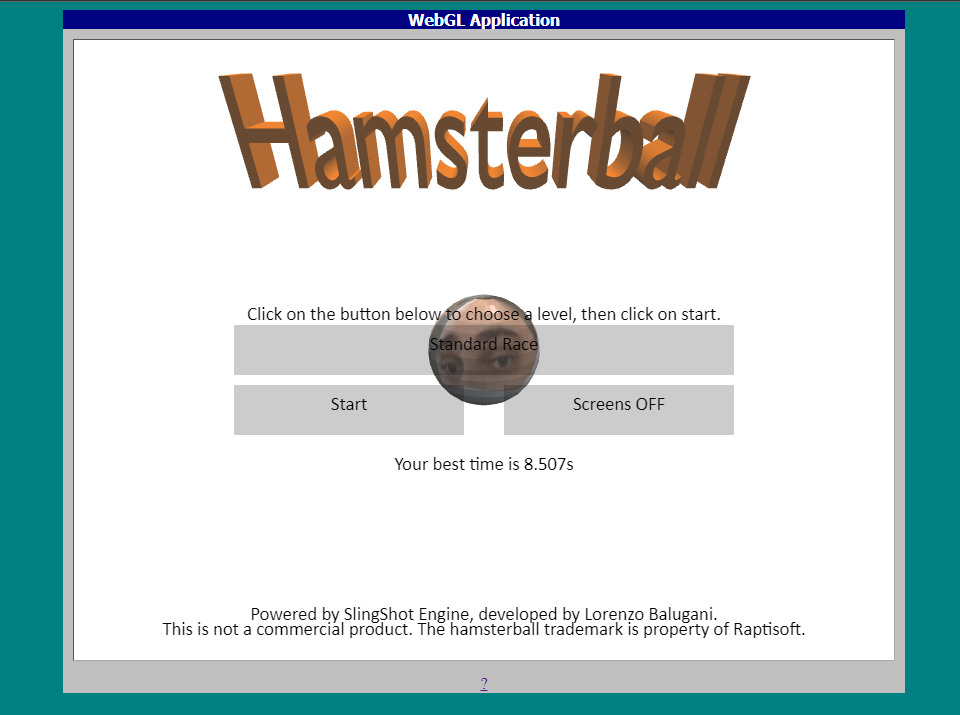
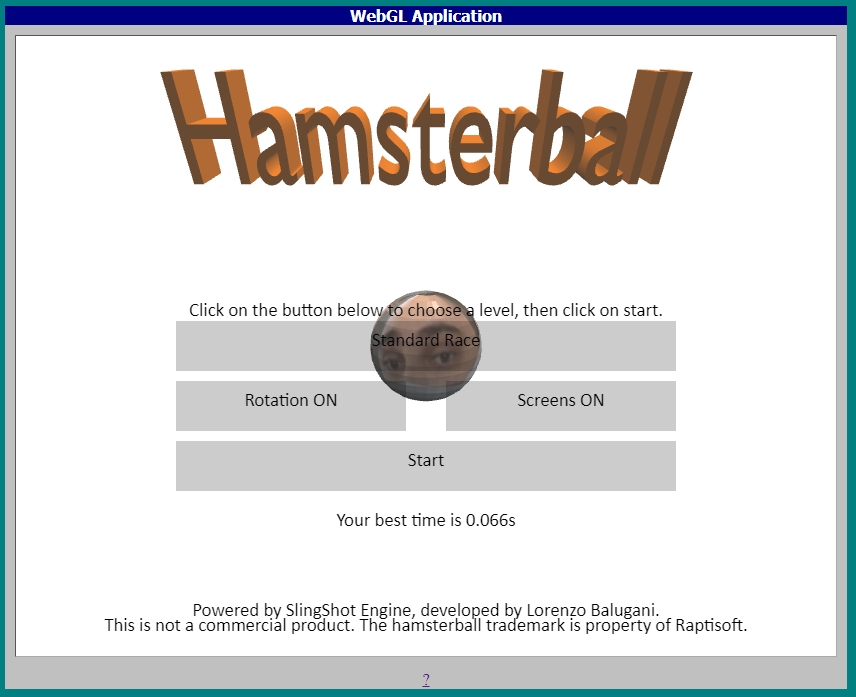
:sparkles: Fix mouse controls

diff --git a/doc/index.html b/doc/index.html
@@ -76,11 +76,13 @@
                 <p>
                     L'applicazione può essere utilizzata in due modi: o visitando il link del github pages del progetto
                     (<a
-                        href="https://nemesis-ft.github.io/HamsterBall-WebGL/index.html">qui</a>) oppure scaricandolo localmente
+                        href="https://nemesis-ft.github.io/HamsterBall-WebGL/index.html">qui</a>) oppure scaricandolo
+                    localmente
                     dal
                     repository github (<a href="https://github.com/Nemesis-FT/HamsterBall-WebGL">qui</a>), dov'è
                     rilasciato
-                    sotto licenza GPL-3.0, e avviando un webserver con python oppure visualstudio code all'interno della cartella project. Una volta avviato,
+                    sotto licenza GPL-3.0, e avviando un webserver con python oppure visualstudio code all'interno della
+                    cartella project. Una volta avviato,
                     sarà
                     visibile la seguente schermata:
                 </p>
@@ -89,7 +91,8 @@
                 </center>
                 <p>E' possibile interagire con il menu principale con il mouse oppure con il touchscreen. Tramite
                     l'interfaccia, è possibile selezionare il livello, avviare la partita, attivare o disattivare gli
-                    schermi e - se presenti - visualizzare i record del tracciato. Per tornare al menu, in qualsiasi
+                    schermi, attivare o disattivare la rotazione della sfera e - se presenti - visualizzare i record del
+                    tracciato. Per tornare al menu, in qualsiasi
                     momento, è sufficiente premere "esc" sulla tastiera oppure ricaricare la pagina.</p>
                 <hr>
                 <p>Una volta avviata una gara, seguirà un tempo di caricamento: la durata di questo caricamento può
@@ -232,9 +235,13 @@
             <div class="body">
                 <ul>
                     <li>
-                        Fragment e Vertex shader per implementazione del modello di illuminazione come visto a lezione,
+                        Fragment shader che implementa il modello di illuminazione,
                         con supporto per le texture e caratteristiche dei materiali, modello di illuminazione di Phong e
                         flat shading.
+                    </li>
+                    <li>
+                        Vertex shader che consente la rotazione e la traslazione dei modelli, con aggiornamento delle
+                        normali.
                     </li>
                     <li>
                         Utilizzo del contesto webgl per la resa della scena.
@@ -278,6 +285,12 @@
                     </li>
                     <li>
                         Interfaccia utente completamente self-contained all'interno del canvas.
+                    </li>
+                    <li>
+                        Salvataggio di high scores nel localstorage.
+                    </li>
+                    <li>
+                        Trasformazioni interamente gestite dal vertex shader.
                     </li>
                 </ul>
             </div>

diff --git a/project/Engine/PlayerController.js b/project/Engine/PlayerController.js
@@ -49,17 +49,17 @@ export class PlayerController{
             if(e instanceof TouchEvent){
                 e = e.changedTouches[0]
                 if(e.clientX>old.x){
-                    queue.z.n=true;
+                    queue.x.n=true;
                 }
                 else if(e.clientX<old.x){
-                    queue.z.p=true;
+                    queue.x.p=true;
                 }
                 else queue.x.n = queue.x.p=false
                 if(e.clientY<old.y){
-                    queue.x.n = true;
+                    queue.z.p = true;
                 }
                 else if(e.clientY>old.y){
-                    queue.x.p = true;
+                    queue.z.n = true;
                 }
                 else queue.z.p = queue.z.n = false
                 old.x = e.clientX;
@@ -67,17 +67,17 @@ export class PlayerController{
             }
             else{
                 if(e.movementX>0){
-                    queue.z.n=true;
+                    queue.x.n=true;
                 }
                 else if(e.movementX<0){
-                    queue.z.p=true;
+                    queue.x.p=true;
                 }
                 else queue.x.n = queue.x.p=false
                 if(e.movementY<0){
-                    queue.x.n = true;
+                    queue.z.p = true;
                 }
                 else if(e.movementY>0){
-                    queue.x.p = true;
+                    queue.z.n = true;
                 }
                 else queue.z.p = queue.z.n = false
             }
